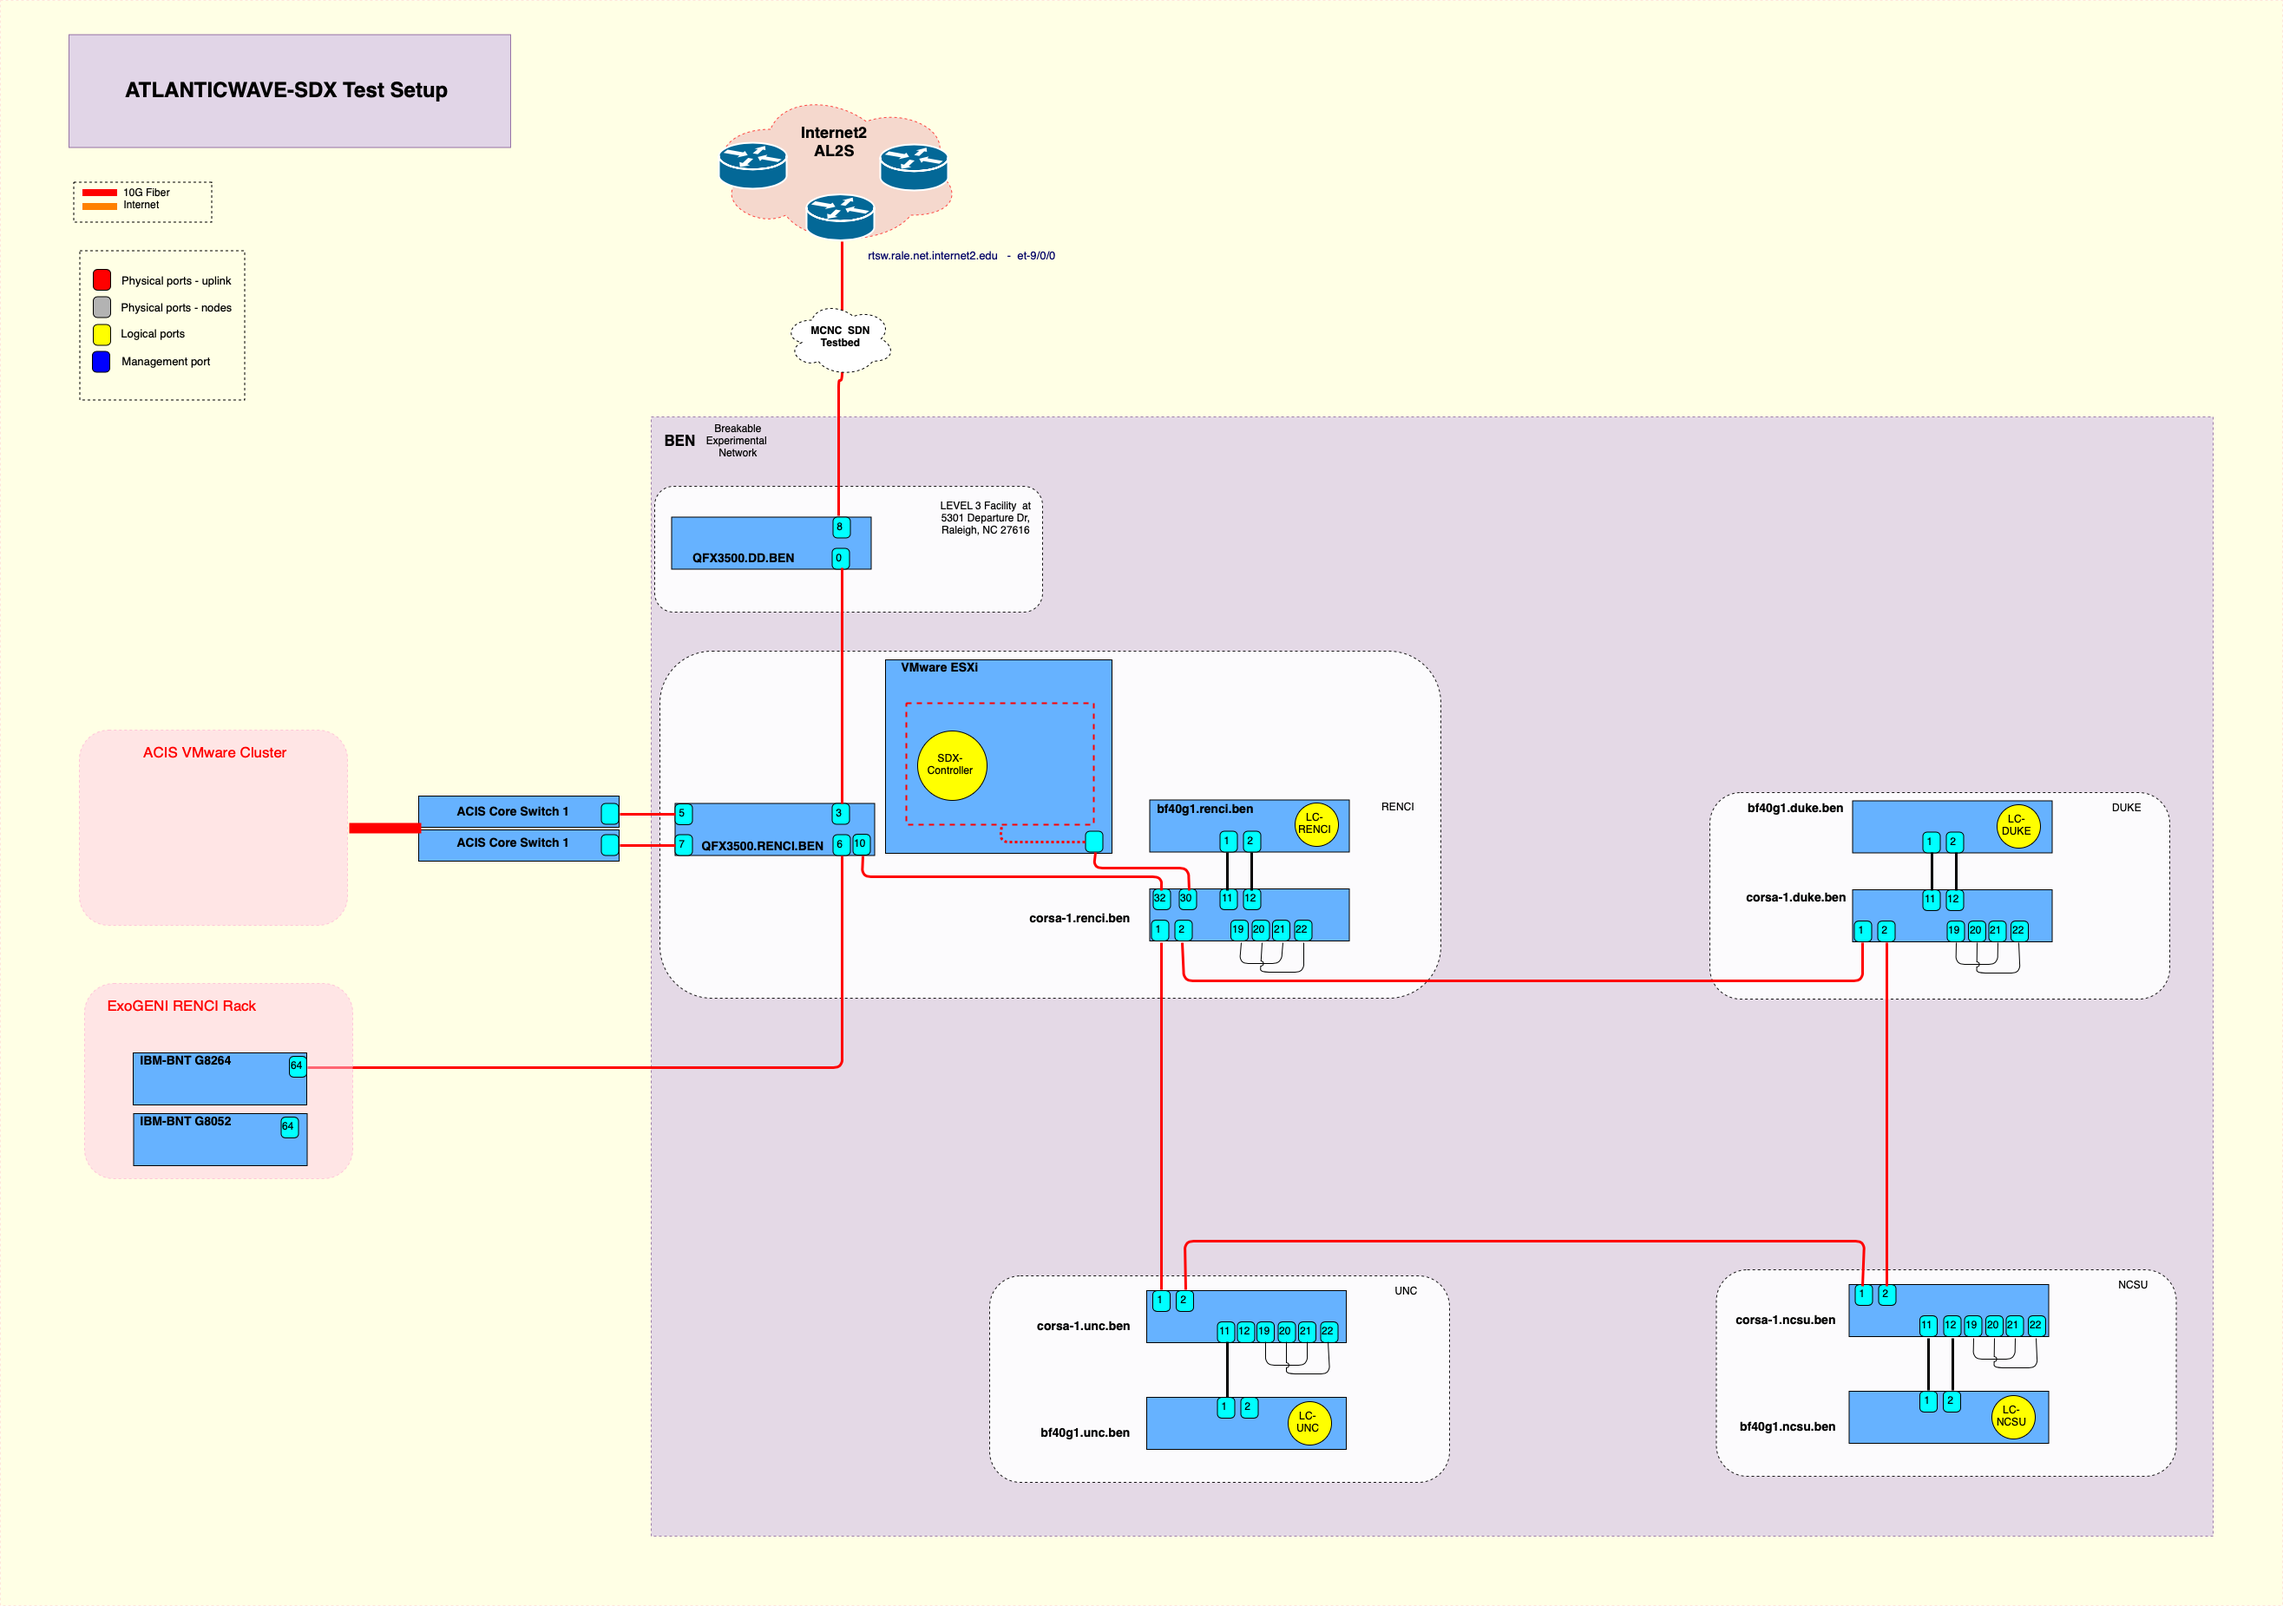
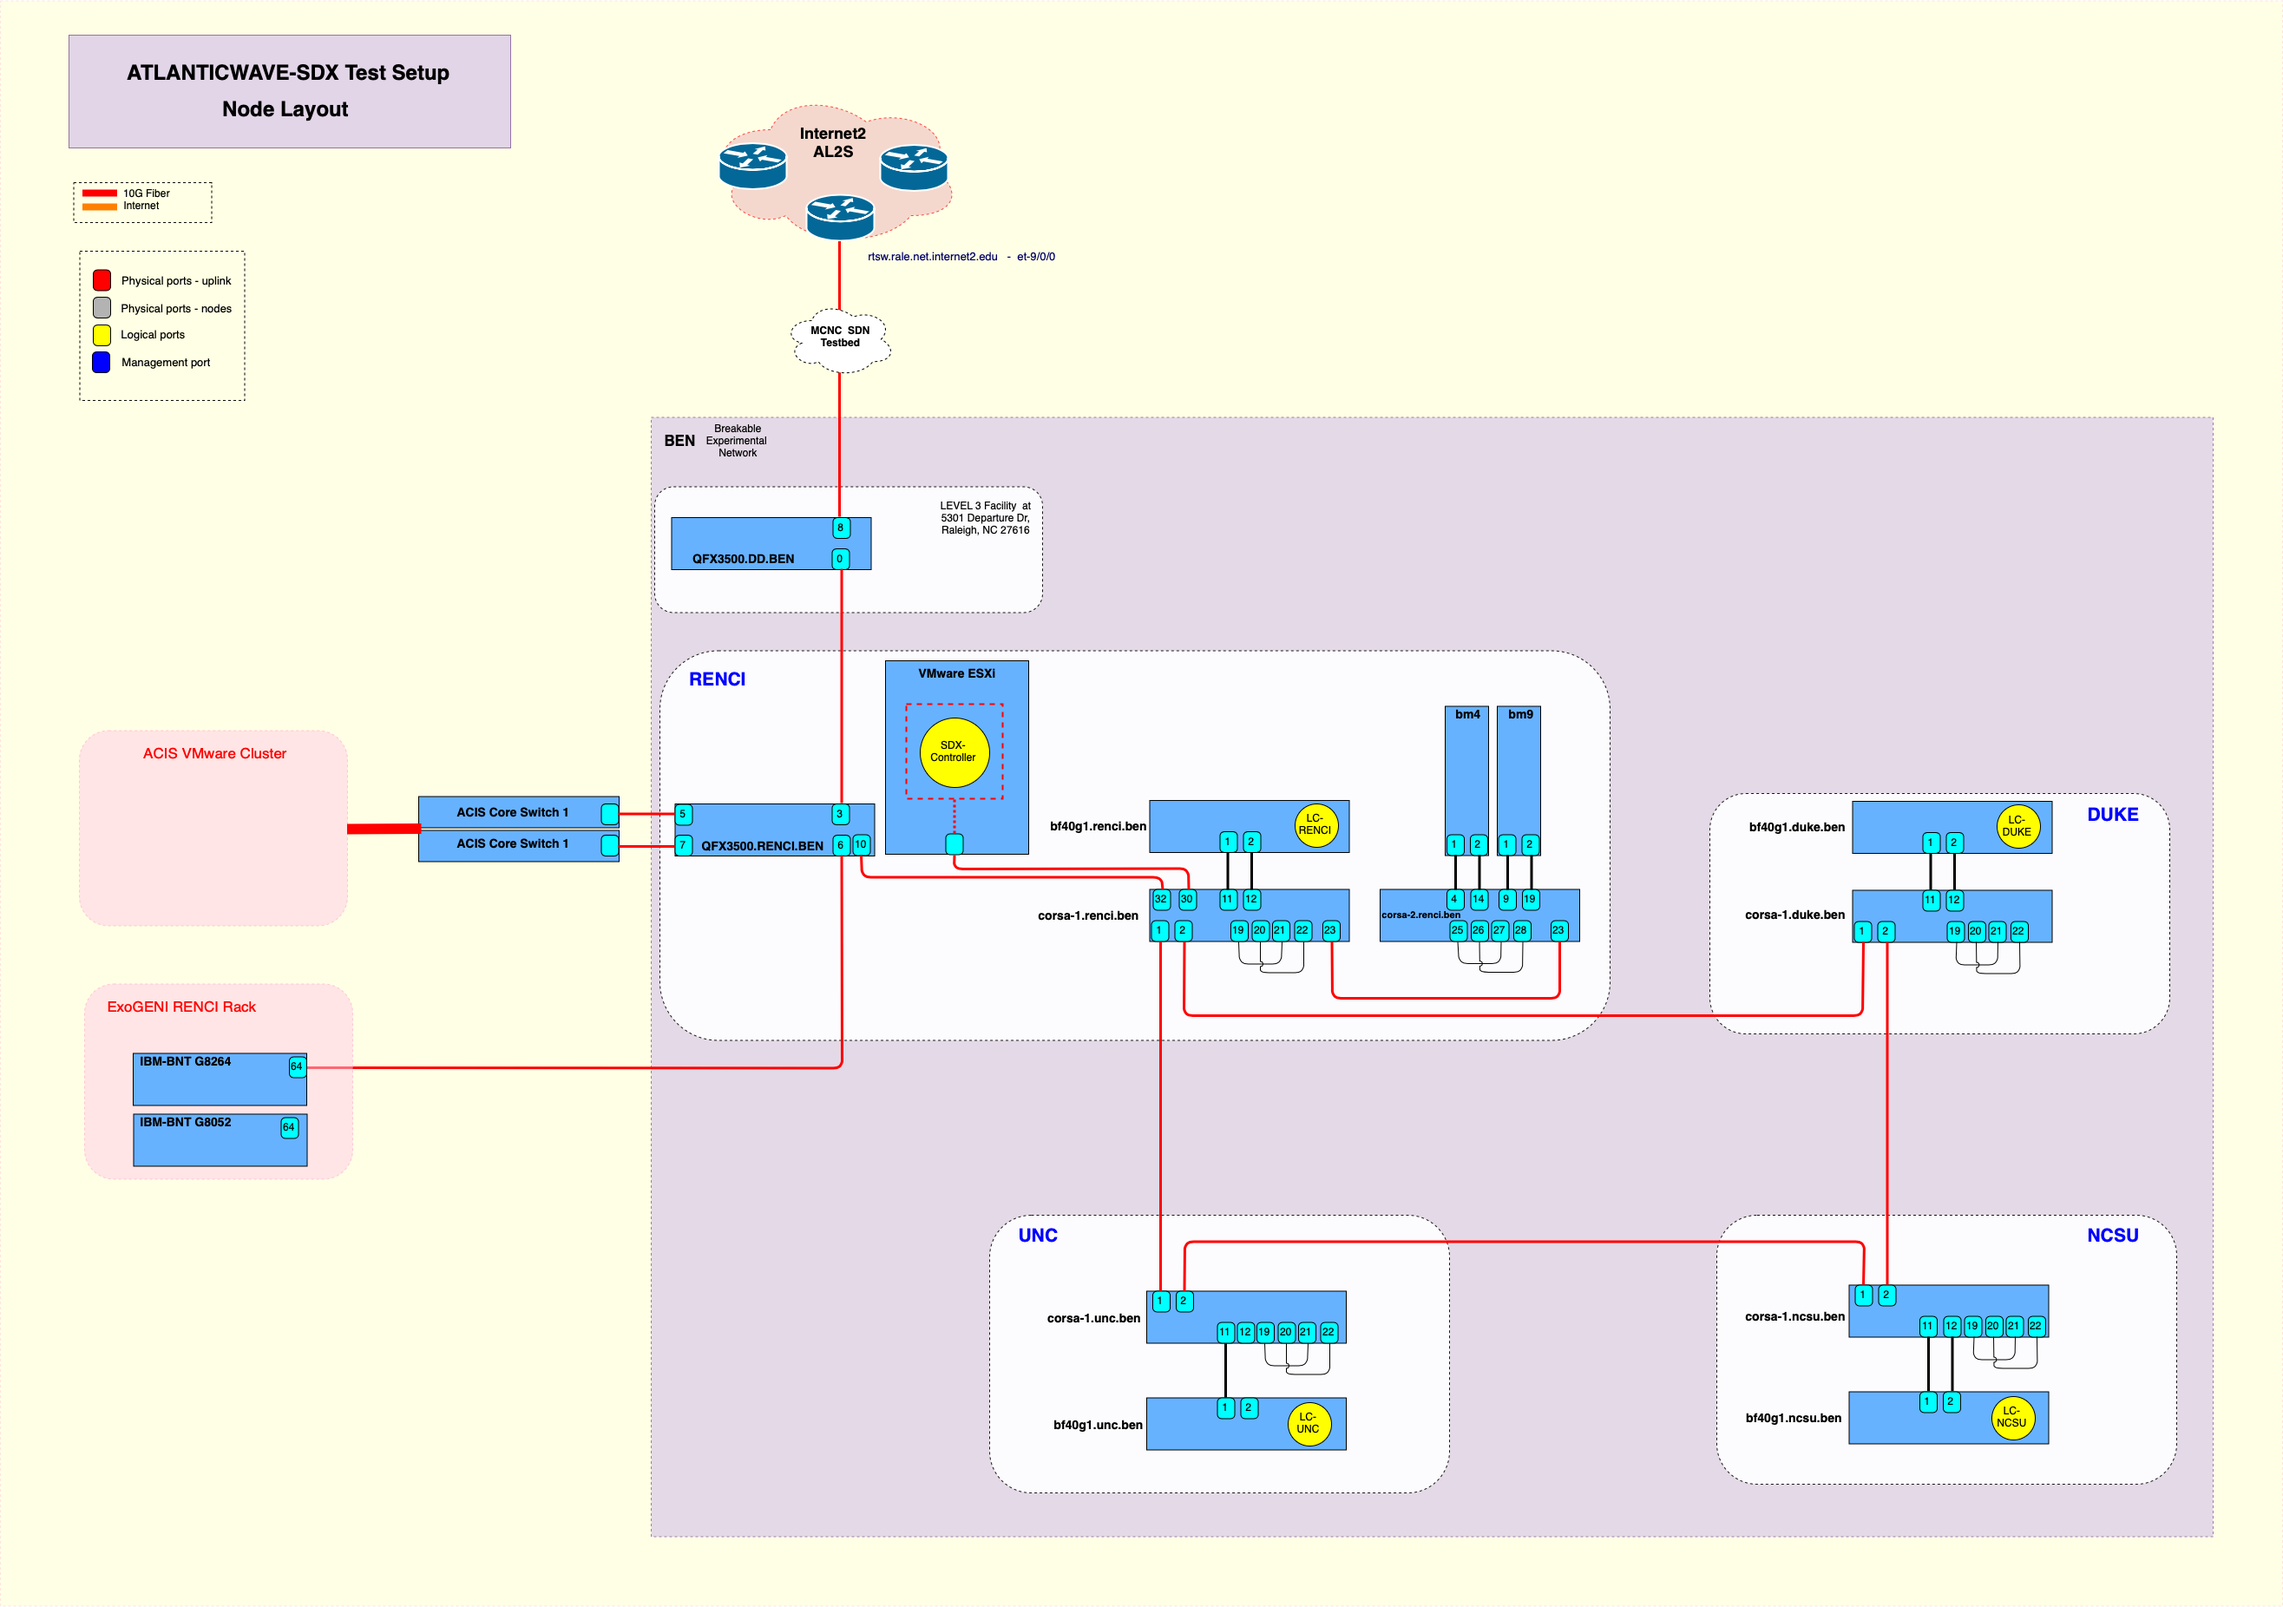
Updates

diff --git a/sdxctlr/RestAPI.py b/sdxctlr/RestAPI.py
@@ -773,7 +773,7 @@ class RestAPI(AtlanticWaveModule):
         base_url = request.base_url
         retdict = {'href':base_url, 'links':{}}
         # Get all the users
-        users = usermanager.get_users()
+        users = UserManager().get_users()
         for user in users:
             un = user['username']
             retdict['links'][un] = {'href': base_url + "/" + un,

diff --git a/configuration/renci_testbed/README.md b/configuration/renci_testbed/README.md
@@ -1,5 +1,9 @@
 # RENCI Testbed Setup
 
+## Testbed Topology
+
+![alt text](figures/AW-SDX-Topology.png)
+
 ## Node Layout
 
 ![alt text](figures/AW-SDX-Node-Layout.png)
@@ -21,6 +25,7 @@ Direct Link: https://drive.google.com/file/d/1BHdOv4X62mmVrFEbLGE5By1Nt3GNLBEo/v
 
 # Corsa Switches
 192.168.201.168   corsa-2.renci.ben
+192.168.201.169   corsa-1.renci.ben
 192.168.202.30    corsa-1.duke.ben
 192.168.203.30    corsa-1.unc.ben
 192.168.204.30    corsa-1.ncsu.ben
@@ -60,30 +65,46 @@ Direct Link: https://drive.google.com/file/d/1BHdOv4X62mmVrFEbLGE5By1Nt3GNLBEo/v
 Set port tunnel-modes
 
 ```
-# RENCI
+# RENCI-1
 configure port 1 tunnel-mode passthrough
 configure port 2 tunnel-mode passthrough
 configure port 11 tunnel-mode passthrough
 configure port 12 tunnel-mode passthrough
+configure port 23 tunnel-mode passthrough
 configure port 30 tunnel-mode passthrough
+configure port 19 tunnel-mode passthrough
+configure port 20 tunnel-mode passthrough
+
+# RENCI-2
+configure port 23 tunnel-mode passthrough
+configure port 4 tunnel-mode passthrough
+configure port 9 tunnel-mode passthrough
+configure port 25 tunnel-mode passthrough
+configure port 26 tunnel-mode passthrough
 
 # DUKE
 configure port 1 tunnel-mode passthrough
 configure port 2 tunnel-mode passthrough
 configure port 11 tunnel-mode passthrough
 configure port 12 tunnel-mode passthrough
+configure port 19 tunnel-mode passthrough
+configure port 20 tunnel-mode passthrough
 
 # UNC
 configure port 1 tunnel-mode passthrough
 configure port 2 tunnel-mode passthrough
 configure port 11 tunnel-mode passthrough
 configure port 12 tunnel-mode passthrough
+configure port 19 tunnel-mode passthrough
+configure port 20 tunnel-mode passthrough
 
 # NCSU
 configure port 1 tunnel-mode passthrough
 configure port 2 tunnel-mode passthrough
 configure port 11 tunnel-mode passthrough
 configure port 12 tunnel-mode passthrough
+configure port 19 tunnel-mode passthrough
+configure port 20 tunnel-mode passthrough
 
 ```
 
@@ -91,24 +112,30 @@ configure port 12 tunnel-mode passthrough
 Create VFCs on all Corsa switches
 
 ```
-# Rate Limiting VFC
-# Create rate limiting VFC (br20) on RENCI | DUKE | UNC | NCSU
-configure bridge add br20 vpws resources 2
-configure bridge br20 controller add Eline 172.17.2.1 6653
-application eline configure connection add atlanticwave 21 22 "Rate Limiting VFC"
+# RENCI-1
 
-# 
-# RENCI
 configure bridge add br21 openflow resources 10
 configure bridge br21 dpid 0xC9
 configure bridge br21 tunnel attach ofport 1 port 1
 configure bridge br21 tunnel attach ofport 2 port 2
+configure bridge br21 tunnel attach ofport 23 port 23
 configure bridge br21 tunnel attach ofport 11 port 11
 configure bridge br21 tunnel attach ofport 12 port 12
 configure bridge br21 tunnel attach ofport 19 port 19 
 configure bridge br21 tunnel attach ofport 20 port 20 
 configure bridge br21 tunnel attach ofport 30 port 30
 configure bridge br21 controller add CONTbr21 192.168.201.196 6681
+
+# RENCI-2
+
+configure bridge add br25 openflow resources 2
+configure bridge br25 dpid 0xCD
+configure bridge br25 tunnel attach ofport 23 port 23
+configure bridge br25 tunnel attach ofport 4 port 4
+configure bridge br25 tunnel attach ofport 9 port 9
+configure bridge br25 tunnel attach ofport 25 port 25
+configure bridge br25 tunnel attach ofport 26 port 26
+configure bridge br25 controller add CONTbr25 192.168.201.196 6681
 
 # DUKE
 
@@ -147,6 +174,22 @@ configure bridge br24 tunnel attach ofport 20 port 20
 configure bridge br24 controller add CONTbr24  192.168.204.21 6684
 
 ```
+
+```
+# Rate Limiting VFC
+# Create rate limiting VFC (br20) on RENCI-1 | RENCI-2 | DUKE | UNC | NCSU
+configure bridge add br20 vpws resources 2
+configure bridge br20 controller add Eline 172.17.2.1 6653
+application eline configure connection add atlanticwave 21 22 "Rate Limiting VFC"
+
+python make-rate-limiting-switch-clean-renci.py 
+python make-rate-limiting-switch-clean-duke.py 
+python make-rate-limiting-switch-clean-unc.py 
+python make-rate-limiting-switch-clean-ncsu.py 
+python make-rate-limiting-switch-clean-renci-2.py
+
+```
+
 
 ## Run Controllers
 
